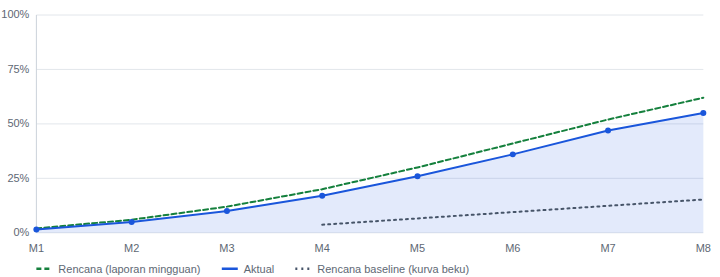
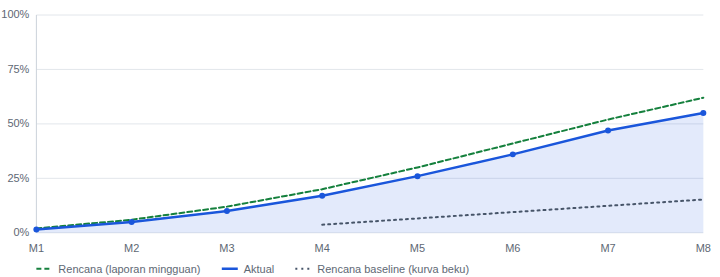
charts: seri boleh menyatakan tebal garisnya, dan ketiga seri TERUKUR memakai 2,5 px lagi — grafik tangan memberi seri yang diukur satu setengah kali tebal seri acuannya ('.chart .act' 2,5 vs '.plan/.base/.ev' 2) dan charts.js menuliskan 2 untuk semuanya, jadi hierarkinya hilang tanpa disebut di daf

diff --git a/public/app/js/charts.js b/public/app/js/charts.js
@@ -8,6 +8,7 @@
  * dihitung server; di sini hanya geometri.
  *
  *   lineChart({ series, xLabels?, xFormat?, yFormat?, yMax?, yMin?, yStep?, width?, height?, ariaLabel, sourceNote?, legend? })
+ *     series[]: { label, points, token?, dash?, dots?, area?, width? } — `width` = tebal garis px (bawaan 2, dijepit 1–4)
  *     series : [{ label, points: [{ x?, y, title?, r?, token? }], dash?|dashed?, area?, token?, dots? }]
  *              dash: pola putus-putus seri sebagai string SVG ('5 3' rencana, '2 4' baseline);
  *              dashed:true = '6 4'. token: token warna eksplisit '--chart-n' (bawaan: posisi seri,
@@ -320,7 +321,7 @@ function drawLegend(svg, rows, y0) {
     const y = y0 + r * 16;
     row.forEach((item) => {
       if (item.kind === 'line') {
-        const line = make('line', { class: 'legend-swatch series-line', x1: item.x, x2: item.x + 16, y1: y - 4, y2: y - 4, 'stroke-width': 2.5, 'stroke-dasharray': item.dash ?? null, 'data-series': item.series });
+        const line = make('line', { class: 'legend-swatch series-line', x1: item.x, x2: item.x + 16, y1: y - 4, y2: y - 4, 'stroke-width': item.width ?? 2.5, 'stroke-dasharray': item.dash ?? null, 'data-series': item.series });
         svg.appendChild(paint(line, 'stroke', item.token));
       } else if (item.kind === 'dot') {
         const dot = make('circle', { class: 'legend-swatch series-point', cx: item.x + 8, cy: y - 4, r: 3, 'data-series': item.series });
@@ -437,7 +438,14 @@ export function lineChart({
     }).sort((a, b) => a.x - b.x);
     const dash = typeof s?.dash === 'string' && s.dash.trim() ? s.dash.trim() : s?.dashed ? '6 4' : null;
     const dots = s?.dots === false ? 'none' : s?.dots === 'last' ? 'last' : 'all';
-    return { label: s?.label ?? `Seri ${i + 1}`, dash, dots, area: !!s?.area, token: tokenOf(s?.token) ?? seriesToken(i), index: i + 1, points };
+    /* Tebal garis per seri, 2 px bila tidak disebut. Ada karena grafik tangan
+       yang digantikan P1-E memberi seri TERUKUR satu setengah kali tebal seri
+       acuannya (`.chart .act { stroke-width: 2.5 }` vs `.plan/.base/.ev` 2),
+       dan hierarki itu hilang tanpa suara saat charts.js menuliskan 2 untuk
+       semuanya — seri kini hanya berbeda warna dan pola putus (verifikasi
+       P1-E). Dijepit 1–4: sebuah garis 12 px bukan penekanan melainkan pita. */
+    const strokeWidth = Math.min(4, Math.max(1, finite(s?.width) ?? 2));
+    return { label: s?.label ?? `Seri ${i + 1}`, dash, dots, width: strokeWidth, area: !!s?.area, token: tokenOf(s?.token) ?? seriesToken(i), index: i + 1, points };
   });
   /* Skala campuran adalah kesalahan pemanggil, tetapi keluarannya tidak boleh mengarang:
      begitu satu x adalah tanggal, x yang bukan tanggal (angka, 'abc') dibuang sebagai
@@ -490,6 +498,9 @@ export function lineChart({
     // tanpa garis adalah legenda yang menjelaskan grafik lain.
     kind: s.hasData && !s.hasLine ? 'dot' : 'line',
     dash: s.dash,
+    // Swatch setebal garisnya: legenda yang menggambar semua seri sama tebal
+    // menghapus hierarki yang baru saja dipulihkan di plotnya.
+    width: s.width,
     series: s.index,
     nodata: !s.hasData,
   }));
@@ -532,7 +543,7 @@ export function lineChart({
         const area = make('path', { class: 'series-area', d: `${d} L${round(x(pts[pts.length - 1].x))},${round(base)} L${round(x(pts[0].x))},${round(base)} Z`, 'fill-opacity': 0.12, 'data-series': s.index, 'clip-path': clip });
         svg.appendChild(paint(area, 'fill', s.token));
       }
-      const path = make('path', { class: 'series-line', d, fill: 'none', 'stroke-width': 2, 'stroke-linejoin': 'round', 'stroke-linecap': 'round', 'stroke-dasharray': s.dash, 'data-series': s.index, 'clip-path': clip });
+      const path = make('path', { class: 'series-line', d, fill: 'none', 'stroke-width': s.width, 'stroke-linejoin': 'round', 'stroke-linecap': 'round', 'stroke-dasharray': s.dash, 'data-series': s.index, 'clip-path': clip });
       svg.appendChild(paint(path, 'stroke', s.token));
     });
     const lastRun = runs[runs.length - 1];

diff --git a/public/app/js/views/evm.js b/public/app/js/views/evm.js
@@ -213,6 +213,12 @@ export function evmCurve(points, bac) {
       label: 'Biaya aktual terhadap BAC',
       token: '--chart-2',
       dots: false,
+      /* 2,5 px, seperti `.chart .act` grafik tangan: seri yang DIUKUR lebih
+         tebal daripada seri acuannya, jadi hierarkinya terbaca sebelum
+         warnanya. Pemindahan P1-E menuliskan 2 untuk semua seri dan
+         hierarki itu hilang tanpa disebut di daftar sebab piksel laporan
+         paketnya (verifikasi P1-E). */
+      width: 2.5,
       points: rows.map((row) => ({ x: row.period_end, y: value(costPct(row)) })),
     },
   ];

diff --git a/public/app/js/views/project.js b/public/app/js/views/project.js
@@ -91,6 +91,12 @@ export function sCurveChart(weeks, baselinePoints) {
       label: 'Aktual',
       token: '--chart-1',
       area: true,
+      /* 2,5 px, seperti `.chart .act` grafik tangan: seri yang DIUKUR lebih
+         tebal daripada seri acuannya, jadi hierarkinya terbaca sebelum
+         warnanya. Pemindahan P1-E menuliskan 2 untuk semua seri dan
+         hierarki itu hilang tanpa disebut di daftar sebab piksel laporan
+         paketnya (verifikasi P1-E). */
+      width: 2.5,
       points: weeks.map((week) => ({ y: pct(week.actual_pct), title: titleOf(week) })),
     },
   ];

diff --git a/public/app/js/views/hargasatuan.js b/public/app/js/views/hargasatuan.js
@@ -78,6 +78,12 @@ function trendChart(series) {
     series: [{
       label: 'Harga satuan',
       token: '--chart-1',
+      /* 2,5 px, seperti `.chart .act` grafik tangan: seri yang DIUKUR lebih
+         tebal daripada seri acuannya, jadi hierarkinya terbaca sebelum
+         warnanya. Pemindahan P1-E menuliskan 2 untuk semua seri dan
+         hierarki itu hilang tanpa disebut di daftar sebab piksel laporan
+         paketnya (verifikasi P1-E). */
+      width: 2.5,
       points: points.map((point) => ({
         x: point.date,
         y: point.price,

diff --git a/docs/bukti-uji/harness-playwright.py b/docs/bukti-uji/harness-playwright.py
@@ -1587,6 +1587,10 @@ CHART_INVENTORY = """(sel) => {
       stroke: cs(l, 'stroke'),
       expected: l.dataset.token ? resolve(l.dataset.token) : null,
       dash: cs(l, 'strokeDasharray'),
+      // Tebal garis: seri yang DIUKUR lebih tebal daripada seri acuannya,
+      // seperti `.chart .act` grafik tangan. Pemindahan P1-E menuliskan 2 untuk
+      // semuanya dan hierarki itu hilang tanpa disebut (verifikasi P1-E).
+      width: parseFloat(cs(l, 'strokeWidth')),
     })),
     areas: svg.querySelectorAll('path.series-area').length,
     points: pts.length,
@@ -1806,6 +1810,15 @@ def s20e(pg):
         # Sumbu EVM boleh melewati 100 % — di sini datanya berhenti di 100, jadi
         # yang dibuktikan adalah bahwa ia TIDAK jatuh di bawahnya.
         "evm_axis_reaches_100": "100%" in evm["ticks"],
+        # Seri yang DIUKUR lebih tebal daripada seri acuannya — pada ketiga
+        # grafik. Kurva-S: Aktual di atas dua garis rencana; EVM: biaya aktual
+        # di atas baseline dan EV; tren harga: satu-satunya garisnya.
+        "measured_series_is_the_heaviest_line": (
+            max(x["width"] for x in scurve["series"]) == 2.5
+            and sorted(x["width"] for x in scurve["series"]) == [2, 2, 2.5]
+            and sorted(x["width"] for x in evm["series"]) == [2, 2, 2.5]
+            and [x["width"] for x in trend["series"]] == [2.5]
+        ),
         # Tren harga: sumbu TIDAK mulai dari nol.
         "trend_axis_not_zero_based": trend["ticks"] and not trend["ticks"][0].strip().endswith(" 0"),
         "trend_five_gridlines": len([t for t in trend["ticks"] if t.startswith("Rp")]) == 5,
